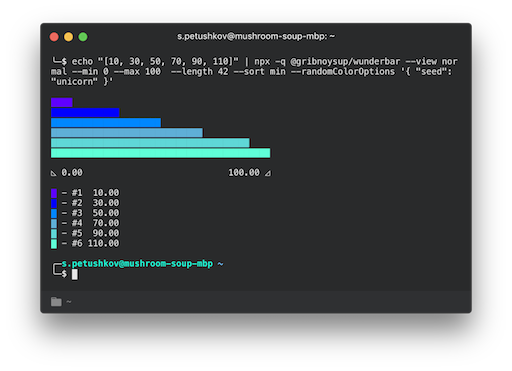
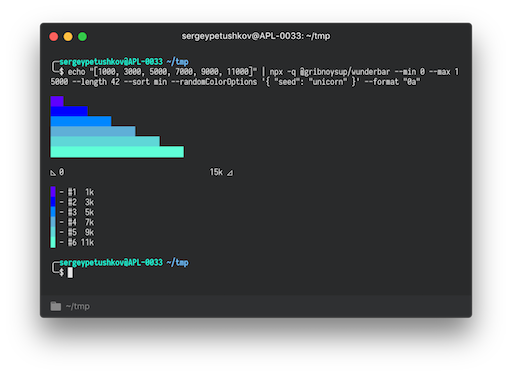
Update docs; update images

diff --git a/README.md b/README.md
@@ -3,11 +3,16 @@
 Have you ever wanted to print some pretty bar charts in your terminal? You are
 in the right place!
 
-![wunder-bar-simple](./wunder-bar-cli-all.png)
+![wunder-bar-cli-all](./wunder-bar-cli-all.png)
 
 Wunderbar can print horisontal bar chart with legend and chart scale straight to
 your terminal. Or you can use it as a module in your code and get all the
 building blocks to print chart yourself.
+
+Wunderbar uses partial block characters (`▏▎▍▌▋▊▉█`) to print the most precise
+charts possible:
+
+![wunder-bar-precise](./wunder-bar-precise.png)
 
 ## Use in terminal
 
@@ -15,19 +20,13 @@ building blocks to print chart yourself.
 echo "[1, 2, 3, 4, 5]" | npx @gribnoysup/wunderbar --min 0
 ```
 
-![wunder-bar-simple](./wunder-bar-simple.png)
+![wunder-bar-echo-json](./wunder-bar-echo-json.png)
 
 ```
 cat data.json | npx @gribnoysup/wunderbar --min 0
 ```
 
-![wunder-bar-cli](./wunder-bar-cli.png)
-
-```
-cat data.json | npx @gribnoysup/wunderbar --min 0 --sort min --view condensed
-```
-
-![wunder-bar-cli-condensed](./wunder-bar-cli-condensed.png)
+![wunder-bar-cat-file](./wunder-bar-cat-file.png)
 
 ## Use in your code
 
@@ -57,16 +56,11 @@ printData();
 
 ## Limitations
 
-* Wunderbar supports only node >= 8
+* Wunderbar supports only node >= 6
 
 * Wunderbar uses [`chalk.hex`][1] to add color to your charts. Chalk is pretty
   smart to downgrade the color if it is not supported by your terminal, but
   output may vary in different terminals.
-
-* `"condensed"` chart view uses half box symbols to squash two chart bars to one
-  line. Quality of the output is heavily dependant on your terminal font
-  settings. Also min to max charts are looking much more prettier than the other
-  way around in this mode ¯\\\_(ツ)\_/¯. **Use with caution**
 
 ## API
 
@@ -76,7 +70,6 @@ printData();
 | ---------------------------- | -------------------------------------------------------------------------------------------------------- | --------------------- | --------------------------------------------------------------------- |
 | values                       | `Array<InputValue>`                                                                                      |                       | Values to draw on a chart                                             |
 | [options]                    | `Object`                                                                                                 |                       | Chart drawing options                                                 |
-| [options.view]               | <code>"normal" &#124; "condensed"</code>                                                                 | `"normal"`            | Chart view type                                                       |
 | [options.min]                | `number`                                                                                                 | min value from values | Min chart value (inclusive)                                           |
 | [options.max]                | `number`                                                                                                 | max value from values | Max chart value (inclusive)                                           |
 | [options.length]             | `number`                                                                                                 | terminal width        | Chart length                                                          |
@@ -88,10 +81,10 @@ All options are also supported in the cli version:
 
 ```
 echo "[1000, 3000, 5000, 7000, 9000, 11000]" | \
-  npx @gribnoysup/wunderbar --view normal --min 0 --max 10000 --length 42 --sort min --randomColorOptions '{ "seed": "unicorn" }' --format "0a"
+  npx @gribnoysup/wunderbar --min 0 --max 15000 --length 42 --sort min --randomColorOptions '{ "seed": "unicorn" }' --format "0a"
 ```
 
-![wunder-bar-simple](./wunder-bar-cli-all.png)
+![wunder-bar-cli-all](./wunder-bar-cli-all.png)
 
 ### Types
 
@@ -102,10 +95,10 @@ echo "[1000, 3000, 5000, 7000, 9000, 11000]" | \
 `{ legend: string, scale: string, chart: string, __raw: RawData }`
 
 <a name="#RawData">**RawData**</a> :
-`{ chartLength: number, minValue: number, maxValue: number, normalizedValues: NormalizedValue[] }`
+`{ chartLength: number, minValue: number, minValueFormatted: string, maxValue: number, maxValueFormatted: string, normalizedValues: NormalizedValue[] }`
 
 <a name="#NormalizedValue">**NormalizedValue**</a> :
-`{ normalizedValue: number, rawValue: number, formattedValue: string, color: string, label: string, lineLength: number }`
+`{ normalizedValue: number, rawValue: number, formattedValue: string, color: string, label: string, lineLength: number, chartBar: string }`
 
 [1]: https://github.com/chalk/chalk#256-and-truecolor-color-support
 [2]: https://github.com/davidmerfield/randomColor#options
